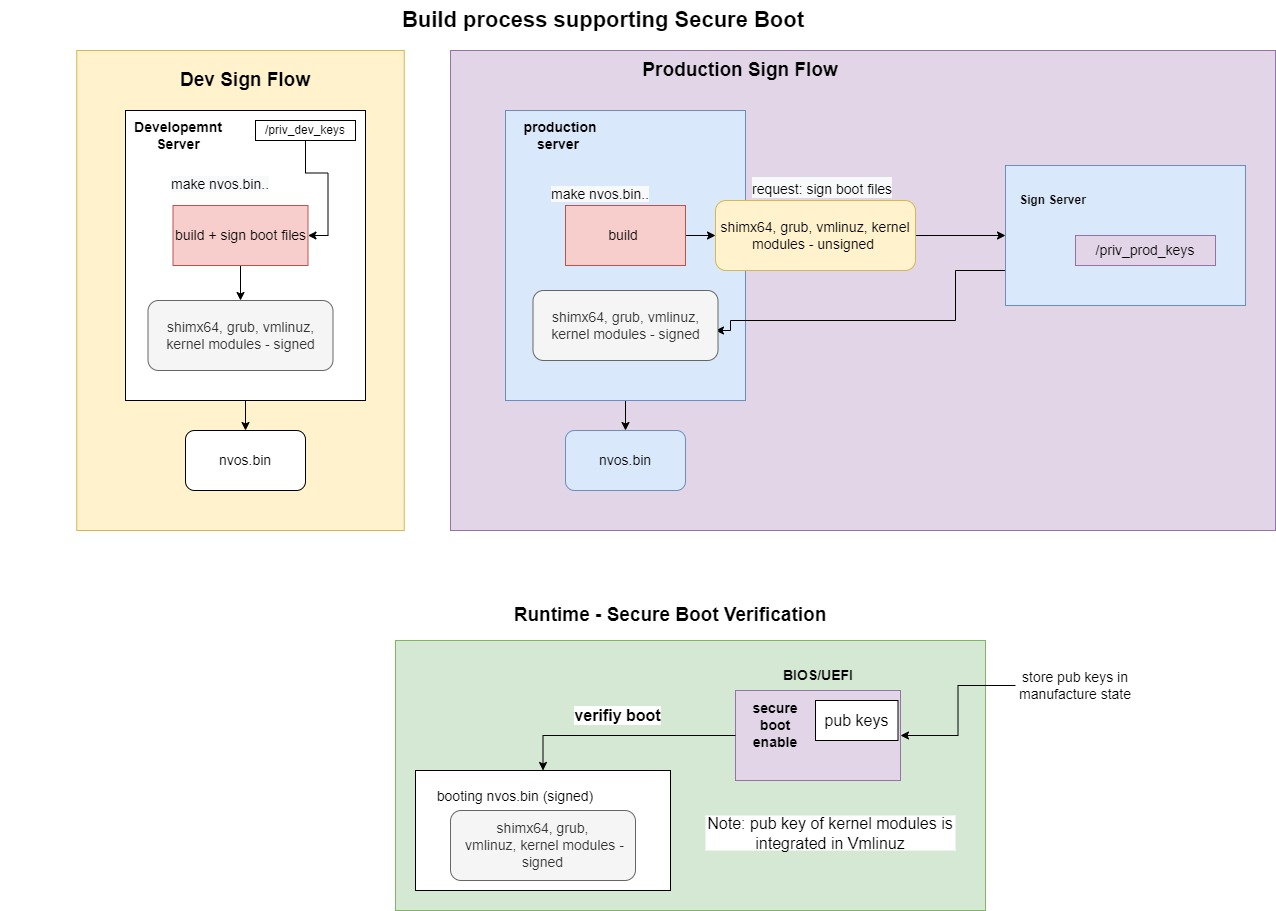
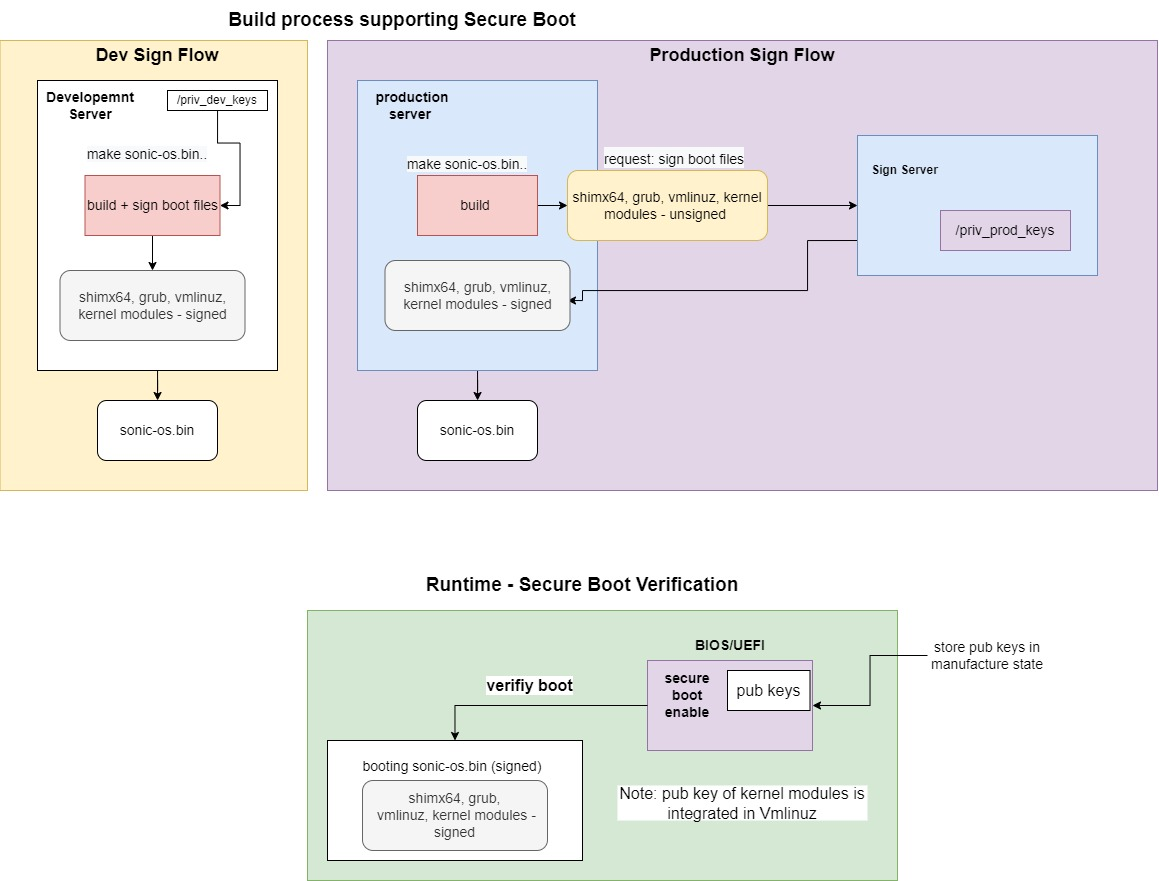
[secure boot]Add explanation about warmboot flow with secure boot enabled

diff --git a/doc/secure_boot/hld_secure_boot.md b/doc/secure_boot/hld_secure_boot.md
@@ -37,7 +37,7 @@
 |  0.1  | 06/2022 |   David Pilnik   | Phase 1 Design     |
 ###  1.2. <a name='Scope'></a>Scope
 
-This secure boot HLD doc described the requirements, architecture, and configuration details of the secure boot feature in switches Sonic OS based.
+This secure boot HLD doc described the requirements, architecture, and configuration details of the secure boot feature in switches SONiC OS based.
 
 ###  1.3. <a name='DefinitionsAbbreviations'></a>Definitions/Abbreviations
 	SB - Secure Boot
@@ -55,10 +55,16 @@ What Secure boot provides is an anchor for that first "trusted program". It allo
 
 ###  1.5. <a name='Requirements'></a>Requirements
 
-We require to enable secure boot in Sonic OS. The feature has a signing process and a verification process. Both processes are required to be supported from the scenarios such as development and production.
+We require to enable secure boot in SONiC OS. The feature has a signing process and a verification process. Both processes are required to be supported from the scenarios such as development and production.
 
 Assumption that Secure boot should be supported by UEFI & CPU arch and Onie OS installed in the Switch device.
 
+Enable/disable the feature in runtime:
+Once you install a secure image in a secure device, is possible to disable the security verification of secure boot, but it's partially.
+How to disable the secure boot flow, is by setting in the BIOS "secure boot" to disable.
+As a result of that, the shim, and the grub will be not verified anymore, but still, the KO and warmboot(kexec) feature will remain secured, that because the modification to support KO and kexec was done in kernel in the build process and cannot be modified in runtime.
+So, this is the reason why secure boot in runtime can be disabled, but just partially.
+Technical details of the kernel build flag can be found in the building chapter.
 ###  1.6. <a name='ArchitectureDesign'></a>Architecture Design
 
 Arc design diagram\
@@ -66,12 +72,12 @@ Arc design diagram\
 
 Sign Arch description:
 There are 2 main signing build flows, the details and modifications required will be described in chapter 4.
-The general difference of dev sign flow - In the build process the build will use a signing script with development keys to sign the boot components. As a result of that, the sonic.bin will contain the boot components signed.
+The general difference of dev sign flow - In the build process the build will use a signing script with development keys to sign the boot components. As a result of that, the sonic-os.bin will contain the boot components signed.
 
 The production sign flow, have some differences from the dev flow, the signing process of the boot components happens in the signing server for a security reason.
 
 So, the build process should send the components to the signing server and get back the component signed.
-Similar to the dev flow, the production flow will have sonic.bin with boot components signed inside as well.
+Similar to the dev flow, the production flow will have sonic-os.bin with boot components signed inside as well.
 
 As a consequence that the signing happens in the signing server and every vendor can use a different signing server that could have different kinds of API to connect/send/sign the boot components, it is required to support a generic solution.
 
@@ -107,7 +113,7 @@ Shim is a simple software package that is designed to work as a first-stage boot
 shim (debian link)
 
 ##### Grub Role
-Grub is a bootloader, differs from Shim by having the ability to run the kernel and allow as to choose the kernel (i.e: Onie/Sonic) that will be used by using a menu.
+Grub is a bootloader, differs from Shim by having the ability to run the kernel and allow as to choose the kernel (i.e: Onie/SONiC) that will be used by using a menu.
 
 ##### Vmlinuz Role
 vmlinuz is the name of the Linux kernel executable. vmlinuz is a compressed Linux kernel, and it is capable of loading the operating system into memory so that the computer becomes usable and application programs can be run.
@@ -117,11 +123,11 @@ Kernel modules or KO are pieces of code that can be loaded and unloaded into the
 Initrd - The initial RAM disk (initrd) is an initial root file system that is mounted prior to when the real rootfile system is available. The initrd is bound to the kernel and loaded as part of the kernel boot procedure. The kernel then mounts this initrd as part of the two-stage boot process to load the modules to make the real file systems available and get at the real root file system.
 
 The initrd contains a minimal set of directories and executables to achieve this, such as the insmod tool to install kernel modules into the kernel.
-Regarding Sonic:
+Regarding SONiC:
 
 In general, the system can boot also without using the initrd (required to build the kernel with some specifics modification), some users comment that in runtime the boot time will be better but others comment the opposite.
 
-Sonic is using the initrd, so we will remain it as in the original repo unsigned. (In order to sign it is required to use a gpg key, but there is not really a use case for that. (Probably future work.)
+SONiC is using the initrd, so we will remain it as in the original repo unsigned. (In order to sign it is required to use a gpg key, but there is not really a use case for that. (Probably future work.)
 
 Grub.cfg - The grub.cfg file is the GRUB configuration file. It is generated by the grub2-mkconfig program using a set of primary configuration files and the grub default file as a source for user configuration specifications. The /boot/grub2/grub.cfg file is first generated during Linux installation and regenerated when a new kernel is installed.
 
@@ -131,10 +137,10 @@ The grub.cfg file contains Bash-like code and a list of installed kernels in an 
 
 
 ####  1.7.3. <a name='SignFlowdiagramdescription:'></a>Sign Flow diagram description:
-Sign flow occurs when building the Sonic image.
+Sign flow occurs when building the SONiC image.
 In the Build process, we need to sign the components shown in the Design Diagram chapter (shim, grub, vmlinuz, kernel modules) and do some modifications in the Linux kernel, that in order to pass the runtime secure boot verification.
 
-This chapter will be described which Sonic modification is required.
+This chapter will be described which SONiC modification is required.
 
 Compilation Flag added:
 - SB_DEV_KEYS_PATH – have the path where dev private key stored
@@ -143,7 +149,7 @@ Compilation Flag added:
   - Dev (default)
   - Production
 - SB_KERNEL_MOD_PUB_KEY – the path of the public key that will be embedded in VMLINUZ for verifying KO.
-These 3 flags will be saved in this file: Sonic/rules/config
+These 3 flags will be saved in this file: SONiC/rules/config
 
 ##### Sign keys
 The sign algorithm is RSA, is an asymmetric algorithm, so the sign flow is signing with private keys, and the verification flow is verifying with the public keys.
@@ -153,7 +159,7 @@ The production keys will be stored according to the design of the signing server
 The development keys will be not stored in Git, instead will be a variable named SB_DEV_KEYS_PATH in compilation time, and the developer will set the location of his private keys.
 
 ##### How to sing the components
-Signing Script: we need to sign shim, grub, vmlinuz, and KO, to do that it will be added a sign script in the Sonic repo in the /script folder named signing_secure_boot_sign_dev.
+Signing Script: we need to sign shim, grub, vmlinuz, and KO, to do that it will be added a sign script in the SONiC repo in the /script folder named signing_secure_boot_sign_dev.
 
 This script will sign all the components described before. (Using sbsign tool for .efi files and sign-file for KO files.)
 This script will be used in the development flow with dev keys.
@@ -166,10 +172,10 @@ In general, the build flow when it is used in production will send the shim, gru
 
 The build flow will know which sign script to choose by reading the SB_BUILD flag value as explained in chapter 2.
 
-##### Shim Sonic modification
+##### Shim SONiC modification
 Currently, there is no Shim installed. So, it's required to get Shim from external Debian repo & sign it with the development/production private key depending on the flow.
 
-In the Sonic repo will be added a new /src folder named shim, in this folder will be a Makefile that will download & extract the unsigned Debian shim pkg, then, call the secure_boot_sign.py script and sign the file shimX64.efi or arm version as well.
+In the SONiC repo will be added a new /src folder named shim, in this folder will be a Makefile that will download & extract the unsigned Debian shim pkg, then, call the secure_boot_sign.py script and sign the file shimX64.efi or arm version as well.
 
 The shimX64.efi signed file should be copied in the build process to the path: /boot/efi/EFI
 
@@ -181,8 +187,8 @@ So It is required to mount this created partition with this name /boot/efi/EFI a
 - So, when the boot process starts, UEFI will look for the shim file in this location to verify it and then continue with the boot flow.
 - There is a possibility to download shim already signed by Microsoft, but then, if we need to do some modifications, or choose another Shim version in the future we will depend on having a version that Microsoft supports as well.
 
-##### GRUB Sonic modification
-Currently, the Grub file is created when installing a Sonic image, the code is in the prefix of the Sonic image that contained the script install.sh.
+##### GRUB SONiC modification
+Currently, the Grub file is created when installing a SONiC image, the code is in the prefix of the SONiC image that contained the script install.sh.
 
 The problem is that in SB we need the grub to be signed, so we will download the grub file from the Debian source and sign it instead of creating it in install.sh.
 
@@ -193,22 +199,33 @@ The grub.efi signed file should copy to the path: /boot/efi/EFI.
 In addition, in case the build is without SB the grub flow will do the same flow as was coded before.
 The Grub flow will know if is require doing the SB flow or the old one by reading the SB_BUILD value.
 
-##### Vmlinuz Sonic modification
-In Sonic the submodule name sonic-linux-kernel contained the Linux kernel.
+##### Vmlinuz SONiC modification
+In SONiC the submodule name sonic-linux-kernel contained the Linux kernel.
 
 We need to do the following modification to support SB:
 - We need to integrate the pub key that will be used to verify kernel modules, to do that, we need the following modification in the Linux kernel configuration:
 
-CONFIG_MODULE_SIG_FORCE=y
-CONFIG_MODULE_SIG_KEY="" // this is a configuration to enforce vmlinuz to sign kernel modules, but we will do that differently, so it will be empty (see explanation in Kernel Modules verification).
+- CONFIG_MODULE_SIG_FORCE=y
 
-CONFIG_SYSTEM_TRUSTED_KEYS="custom_certs/nv_Sonic_key_certificate.pem" //this variable is saying where the public key is. This key will verify the kernel modules, this path should be custom chosen by the user.
+enforce to check signature of KO.
+
+- CONFIG_MODULE_SIG_KEY=""
+
+ this is a configuration to enforce vmlinuz to sign kernel modules, but we will do that differently, so it will be empty (see explanation in Kernel Modules verification).
+
+- CONFIG_SYSTEM_TRUSTED_KEYS=< custom_vendor_certificates_path > (Format file=pem)
+
+this variable is saying where the public key is. This key will verify the kernel modules, this path should be custom chosen by the user.
 
 So, we will add a build variable where the developer can set the key location in his environment.
-- Finally, after the configuration changes, we need to sign the file vmlinuz.efi (similar like we sign shim, grub with the sign script)
+
+- CONFIG_KEXEC_VERIFY_SIG=y
+Details in Warmboot chapter.
+
+Finally, after the configuration changes, we need to sign the file vmlinuz.efi (similar like we sign shim, grub with the sign script)
 
 Note: Same as other modifications if the SB_BUILD flag is “no sign” those modifications will not happen and the kernel will remain the same as before the feature was implemented
-##### Kernel Module Sonic modification
+##### Kernel Module SONiC modification
 Most of the kernel modules are in sonic-linux-kernel repo, but there are more KO like Ofed & SDK.
 
 The secure_boot_sign.py script wrapper the sign-file tool as well and will sign all the KO.
@@ -231,10 +248,10 @@ set SB flag to enable in BIOS, save shim, grub in this location: /boot/efi/EFI, 
 
 ##### the modules and sub-modules that are modified for this design
 
-- Repo where the code will be added: https://gitlab-master.nvidia.com/nbu-sws/nos/Sonic/-/tree/master
+- Repo where the code will be added: https://github.com/Azure/sonic-buildimage
 - Modules/Submodules that will be changed:
   - Sonic-linux-kernel submodule: https://github.com/Azure/sonic-linux-kernel
-  - Sonic install module. https://github.com/Azure/sonic-buildimage/blob/master/installer/x86_64/install.sh
+  - SONiC install module. https://github.com/Azure/sonic-buildimage/blob/master/installer/x86_64/install.sh
 
 ###  1.8. <a name='SAIAPI'></a>SAI API
 N/A
@@ -250,7 +267,24 @@ N/A
 
 
 ###  1.10. <a name='WarmbootandFastbootDesignImpact'></a>Warmboot and Fastboot Design Impact
-Mention whether this feature/enhancement has got any requirements/dependencies/impact w.r.t. warmboot and fastboot. Ensure that the existing warmboot/fastboot feature is not affected due to this design and explain the same.
+
+Secure Boot feature support warmboot, but in order to save the system secured when doing warmboot is necessary to add a few additions.
+
+Tech details: Warmboot is using a system call named kexec, this call can install a new kernel without doing cold boot, so in order to support the warmboot and maintain the system security is required to verify that the new kernel that will be installed is from the vendor.
+In order to do that, this new kernel should be signed and be verify when triggering kexec.
+
+In order to ensure that kexec will verify the new kernel, need to do the following additions:
+ - When building the kernel is necessary to set this flag CONFIG_KEXEC_VERIFY_SIG to be “true”.
+
+	This means that the new kernel that will be install in warmboot will be verified.
+
+ - Is necessary to add flag ‘-s’ to kexec.
+
+	This is to ensure that kexec will be secure as well.
+
+Note: key that will verify the signature will be embedded in build time in Vmlinuz similar than what we did for KO.
+
+
 
 ###  1.11. <a name='RestrictionsLimitations'></a>Restrictions/Limitations
 Explained in the requirement chapter.
@@ -263,7 +297,7 @@ Example sub-sections for unit test cases and system test cases are given below.
 
 ####  1.12.1. <a name='UnitTestcases'></a>Unit Test cases
 
-The test will verify the signed boot components with dev keys when building the Sonic image.
+The test will verify the signed boot components with dev keys when building the SONiC image.
 
 It is possible to verify the boot component one by one without the BIOS runtime verification, that by calling signs tools and using them to verify the signatures with the dev pub keys.
 - Verify with public key the signed SHIM
@@ -271,11 +305,12 @@ It is possible to verify the boot component one by one without the BIOS runtime 
 - Verify with public key the signed Vmlinux
 - Verify with public key the signed KO
 
-In case any of the unitest will failed, the Sonic Image will be not created.
+In case any of the unitest will failed, the SONiC Image will be not created.
 
 ####  1.12.2. <a name='SystemTestcases'></a>System Test cases
 Positive test:
-- Verify runtime secure boot with a signed sonic image installed.
+- Verify runtime secure boot with a signed SONiC image installed.
+- warmboot: install a new sign kernel using warmboot.
 
 Negative test:
 - Test secure boot runtime verification of shim/grub/Vmlinuz/KO.
@@ -283,11 +318,13 @@ Negative test:
   Details: The test will modify the secure boot component and expect the verification to failed.
 - Test signature matching (asymmetric key match)
 
-  Details: The test will try to load a sonic image with a pub and private key that not match and expecting to failed.
+  Details: The test will try to load a SONiC image with a pub and private key that not match and expecting to failed.
 
 - Test that is not possible to add new Kernel modules in runtime.
 
-- Test SB verification when Sonic image no signed.
+- Test SB verification when SONiC image no signed.
+
+- Test Warmboot: install a new unsign kernel with warmboot and expect to fail.
 
 ###  1.13. <a name='OpenActionitems-ifany'></a>Open/Action items - if any
 
